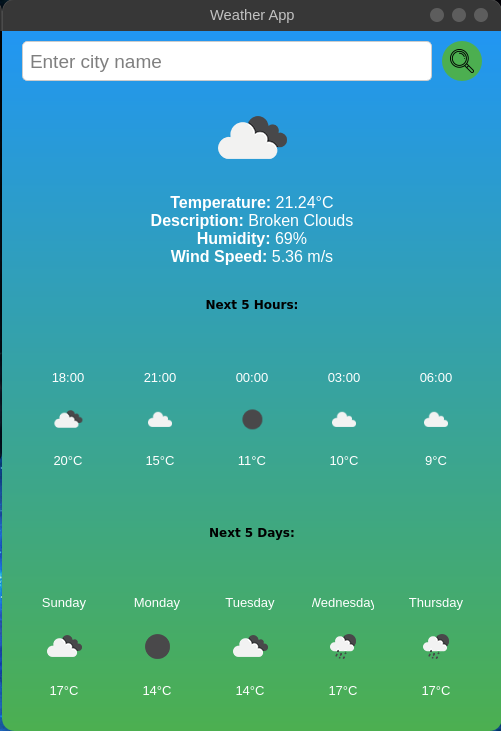
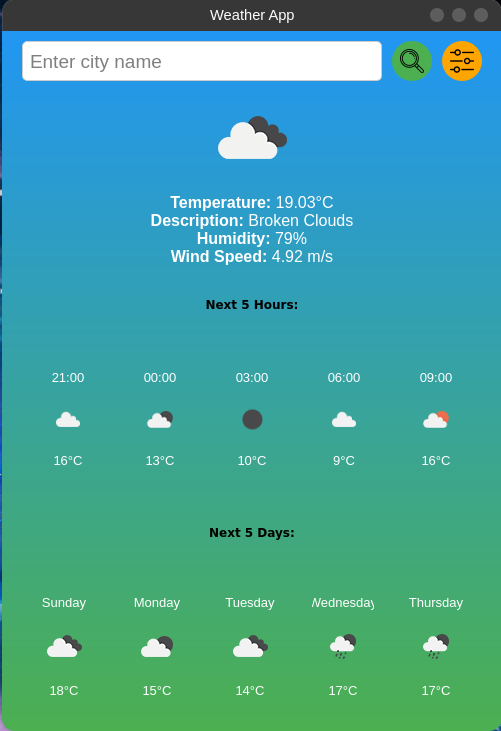
create settings pop window

diff --git a/scripts/main.py b/scripts/main.py
@@ -8,25 +8,81 @@ import requests
 from PyQt5.QtCore import QRectF, QSize, Qt, QTimer
 from PyQt5.QtGui import (QBrush, QColor, QFont, QIcon, QLinearGradient,
                          QPainter, QPainterPath, QPalette, QPixmap)
-from PyQt5.QtWidgets import (QApplication, QFrame, QHBoxLayout, QLabel,
-                             QLineEdit, QPushButton, QScrollArea, QSizePolicy,
+from PyQt5.QtWidgets import (QApplication, QDialog, QFormLayout, QFrame,
+                             QHBoxLayout, QLabel, QLineEdit, QMessageBox,
+                             QPushButton, QScrollArea, QSizePolicy, QSpinBox,
                              QVBoxLayout, QWidget)
 
 config = configparser.ConfigParser()
 config.read('config/config.ini')
-api_key = config.get('openweathermap', 'api_key')
-city_location = config.get(
-    'default_city', 'city_location', fallback='London, GB')
-update_interval = config.getint(
-    'refresh', 'update_interval', fallback=600)
+
+
+class SettingsWindow(QDialog):
+    def __init__(self, parent=None):
+        super().__init__(parent)
+        self.setWindowTitle('Settings')
+        self.config = configparser.ConfigParser()
+        self.config.read('config/config.ini')
+        self.initUI()
+
+    def initUI(self):
+        layout = QFormLayout()
+
+        # API Key
+        self.api_key_input = QLineEdit(self)
+        self.api_key_input.setText(
+            self.config.get('openweathermap', 'api_key'))
+        layout.addRow('API Key:', self.api_key_input)
+
+        # Default City
+        self.city_input = QLineEdit(self)
+        self.city_input.setText(self.config.get(
+            'default_city', 'city_location', fallback='London, UK'))
+        layout.addRow('Default City:', self.city_input)
+
+        # Update Interval
+        self.update_interval_input = QSpinBox(self)
+        self.update_interval_input.setRange(
+            60, 86400)  # Between 1 minute and 24 hours
+        self.update_interval_input.setValue(
+            self.config.getint('refresh', 'update_interval', fallback=600)
+        )
+        layout.addRow('Update Interval (seconds):', self.update_interval_input)
+
+        # Buttons
+        buttons_layout = QHBoxLayout()
+        self.save_button = QPushButton('Save', self)
+        self.save_button.clicked.connect(self.save_settings)
+        self.cancel_button = QPushButton('Cancel', self)
+        self.cancel_button.clicked.connect(self.close)
+        buttons_layout.addWidget(self.save_button)
+        buttons_layout.addWidget(self.cancel_button)
+
+        layout.addRow(buttons_layout)
+        self.setLayout(layout)
+
+    def save_settings(self):
+        # Update the config object
+        self.config.set('openweathermap', 'api_key', self.api_key_input.text())
+        self.config.set('default_city', 'city_location',
+                        self.city_input.text())
+        self.config.set('refresh', 'update_interval', str(
+            self.update_interval_input.value()))
+
+        # Write changes to the config.ini file
+        with open('config/config.ini', 'w') as configfile:
+            self.config.write(configfile)
+
+        # Inform the user
+        QMessageBox.information(
+            self, 'Settings', 'Settings have been saved.')
+        self.accept()
 
 
 class WeatherApp(QWidget):
     def __init__(self):
         super().__init__()
-        self.update_interval = update_interval
-        self.api_key = api_key
-        self.city_location = city_location
+        self.load_config()
         self.current_city = None
         self.first_load = True
         self._debugging = False
@@ -37,6 +93,15 @@ class WeatherApp(QWidget):
         self.timer.timeout.connect(self.refresh_weather)
         # Convert seconds to milliseconds
         self.timer.start(self.update_interval * 1000)
+
+    def load_config(self):
+        self.config = configparser.ConfigParser()
+        self.config.read('config/config.ini')
+        self.api_key = self.config.get('openweathermap', 'api_key')
+        self.city_location = self.config.get(
+            'default_city', 'city_location', fallback='London, UK')
+        self.update_interval = self.config.getint(
+            'refresh', 'update_interval', fallback=600)  # In seconds
 
     def initUI(self):
         self.setWindowTitle('Weather App')
@@ -70,10 +135,33 @@ class WeatherApp(QWidget):
             """
         )
 
-        # Set the icon
-        icon = QIcon('icons/research.png')
-        self.get_weather_btn.setIcon(icon)
+        # Set the search icon
+        search_icon = QIcon('icons/research.png')
+        self.get_weather_btn.setIcon(search_icon)
         self.get_weather_btn.setIconSize(QSize(24, 24))
+
+        # Button to open settings
+        self.settings_btn = QPushButton('', self)
+        self.settings_btn.clicked.connect(self.open_settings)
+        self.settings_btn.setFixedSize(40, 40)
+        self.settings_btn.setStyleSheet(
+            """
+            QPushButton {
+                background-color: #FFA500;
+                border: none;
+                border-radius: 20px;
+            }
+            QPushButton:hover {
+                background-color: #FF8C00;
+            }
+            """
+        )
+
+        # Set the settings icon
+        # You need to have a settings icon in the icons folder
+        settings_icon = QIcon('icons/settings.png')
+        self.settings_btn.setIcon(settings_icon)
+        self.settings_btn.setIconSize(QSize(24, 24))
 
         # Label to display the weather information
         self.weather_info = QLabel('', self)
@@ -85,10 +173,11 @@ class WeatherApp(QWidget):
         self.icon_label = QLabel('', self)
         self.icon_label.setAlignment(Qt.AlignCenter)
 
-        # Create a horizontal layout for the input field and button
+        # Create a horizontal layout for the input field and buttons
         search_layout = QHBoxLayout()
         search_layout.addWidget(self.city_input)
         search_layout.addWidget(self.get_weather_btn)
+        search_layout.addWidget(self.settings_btn)
         search_layout.setSpacing(10)
         search_layout.setContentsMargins(10, 10, 10, 0)
 
@@ -227,7 +316,7 @@ class WeatherApp(QWidget):
 
                     # Format the weather details
                     weather_details = (
-                        f"<b>Temperature:</b> {int(temp)}°C<br>"
+                        f"<b>Temperature:</b> {temp}°C<br>"
                         f"<b>Description:</b> {description.title()}<br>"
                         f"<b>Humidity:</b> {humidity}%<br>"
                         f"<b>Wind Speed:</b> {wind_speed} m/s"
@@ -241,15 +330,15 @@ class WeatherApp(QWidget):
                             self.api_key}&units=metric'
                     )
                     if self._debugging:
-                        print(f"Forecast URL: {forecast_url}")
+                        print(f"Forecast URL: {forecast_url}")  # Debugging
 
                     forecast_response = requests.get(forecast_url)
 
                     if self._debugging:
                         print(f"Forecast Response Status Code: {
-                              forecast_response.status_code}")
+                              forecast_response.status_code}")  # Debugging
                         print(f"Forecast Response Text: {
-                              forecast_response.text}")
+                              forecast_response.text}")  # Debugging
 
                     if forecast_response.status_code == 200:
                         forecast_data = forecast_response.json()
@@ -419,6 +508,18 @@ class WeatherApp(QWidget):
         day_frame.setStyleSheet("")
 
         self.forecast_layout.addWidget(day_frame)
+
+    def open_settings(self):
+        settings_window = SettingsWindow(self)
+        if settings_window.exec_():
+            # Reload configurations
+            self.load_config()
+            # Restart the timer with the new interval
+            self.timer.stop()
+            self.timer.start(self.update_interval * 1000)
+            # Refresh the weather data
+            self.first_load = True  # Force reload of default city
+            self.show_weather()
 
     def paintEvent(self, event):
         # Overriding paintEvent to handle transparency

diff --git a/README.md b/README.md
@@ -1,6 +1,6 @@
 # Weather App
 
-A simple and elegant weather application built with Python and PyQt5 that displays current weather information, a 5-hour forecast, and a 5-day forecast for a specified city. The application fetches data from the OpenWeatherMap API and updates automatically at a configurable interval.
+A simple and elegant weather application built with Python and PyQt5 that displays current weather information, a 5-hour forecast, and a 5-day forecast for a specified city. The application fetches data from the OpenWeatherMap API and updates automatically at a configurable interval. It now includes an in-app settings window for easy configuration.
 
 ## Table of Contents
 
@@ -10,6 +10,7 @@ A simple and elegant weather application built with Python and PyQt5 that displa
 - [Configuration](#configuration)
 - [Usage](#usage)
 - [Dependencies](#dependencies)
+- [Project Structure](#project-structure)
 - [Contributing](#contributing)
 - [License](#license)
 - [Acknowledgments](#acknowledgments)
@@ -19,10 +20,11 @@ A simple and elegant weather application built with Python and PyQt5 that displa
 - **Current Weather Information**: Displays temperature, weather description, humidity, and wind speed.
 - **5-Hour Forecast**: Shows weather conditions for the next 5 hours in 3-hour intervals.
 - **5-Day Forecast**: Provides average daily temperature and weather conditions for the next 5 days.
-- **Automatic Updates**: Refreshes weather data at intervals specified in the configuration file.
+- **In-App Settings Configuration**: Change API key, default city, and update interval directly from the application using the settings window.
+- **Automatic Updates**: Refreshes weather data at intervals specified in the configuration file or settings window.
 - **Customizable City**: Set a default city in the configuration file or search for any city using the input field.
 - **Responsive UI**: Designed with a gradient background and scalable widgets for a pleasant user experience.
-- **Configurable Refresh Rate**: Adjust the update interval through the configuration file without changing the code.
+- **Configurable Refresh Rate**: Adjust the update interval through the settings window or configuration file without changing the code.
 
 ## Demo
 
@@ -70,7 +72,7 @@ pip install PyQt5 requests configparser
 2. Navigate to the [API keys](https://home.openweathermap.org/api_keys) section in your account.
 3. Generate a new API key or use an existing one.
 
-### Set Up the Configuration File
+### Initial Configuration
 
 Create a `config.ini` file in the `config` directory with the following content:
 
@@ -89,6 +91,8 @@ update_interval = 600  # Update interval in seconds (e.g., 600 seconds = 10 minu
 - Set `city_location` to your preferred default city.
 - Adjust `update_interval` to the desired refresh rate in seconds.
 
+**Note:** After the initial setup, you can change these settings directly within the application using the settings window.
+
 ## Usage
 
 ### Running the Application
@@ -101,14 +105,21 @@ _Make sure you are in the root directory of the project and the virtual environm
 
 ### Using the Application
 
-- **On Startup**: The app displays the weather for the default city specified in the configuration file.
+- **On Startup**: The app displays the weather for the default city specified in the configuration file or the settings.
 - **Search for a City**:
   - Enter the name of a city in the input field.
   - Click the search button (magnifying glass icon) or press Enter.
   - The app updates to show weather information for the entered city.
 - **Automatic Refresh**:
   - The app refreshes the weather data at intervals specified in `update_interval`.
-  - You can adjust the interval by modifying the `config.ini` file and restarting the app.
+  - You can adjust the interval through the settings window or by modifying the `config.ini` file.
+- **Accessing Settings**:
+  - Click the settings button (gear icon) next to the search button.
+  - In the settings window, you can:
+    - **Change API Key**: Update your OpenWeatherMap API key.
+    - **Set Default City**: Specify a new default city.
+    - **Adjust Update Interval**: Set a new refresh rate in seconds.
+  - Click **Save** to apply changes. The app will update configurations and refresh the weather data.
 
 ## Dependencies
 
@@ -130,7 +141,8 @@ weather-app/
 ├── config/
 │   └── config.ini
 ├── icons/
-│   └── research.png
+│   ├── research.png
+│   └── settings.png
 ├── docs/
 │   └── screenshot.png
 ├── scripts/
@@ -141,9 +153,11 @@ weather-app/
 
 - **config/**: Contains the configuration file `config.ini`.
 - **icons/**: Holds icon images used in the application.
+  - `research.png`: Icon for the search button.
+  - `settings.png`: Icon for the settings button.
 - **docs/**: Documentation and screenshots.
 - **scripts/**: Holds scripts.
-- **main.py**: The main application script.
+  - `main.py`: The main application script.
 - **requirements.txt**: List of Python dependencies.
 - **README.md**: This readme file.
 
@@ -171,4 +185,4 @@ This project is licensed under the MIT License - see the [LICENSE](LICENSE) file
 
 _This application was developed to provide an easy and visually appealing way to access weather information. It demonstrates how to integrate APIs with a Python GUI application and how to structure code for readability and maintainability._
 
-If you have any questions or need assistance, feel free to contact the project maintainer."
+If you have any questions or need assistance, feel free to contact the project maintainer.
